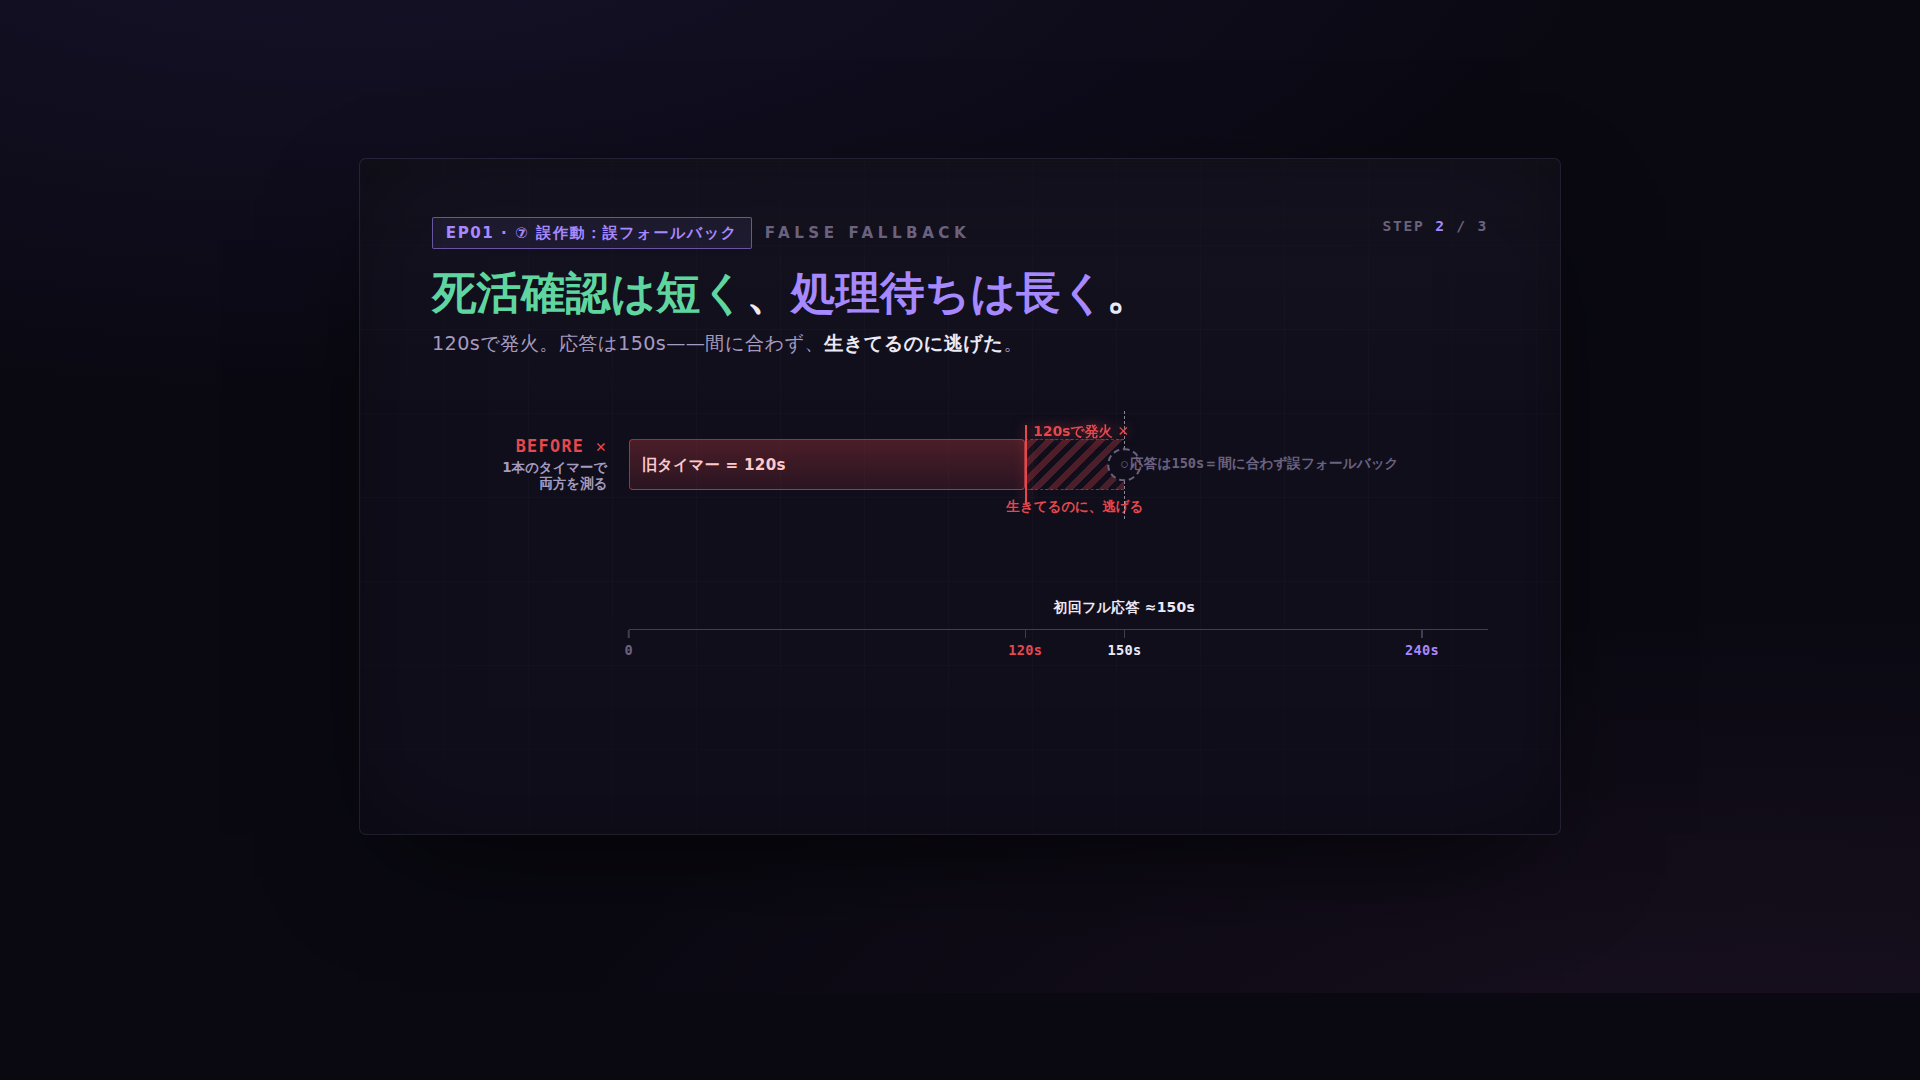
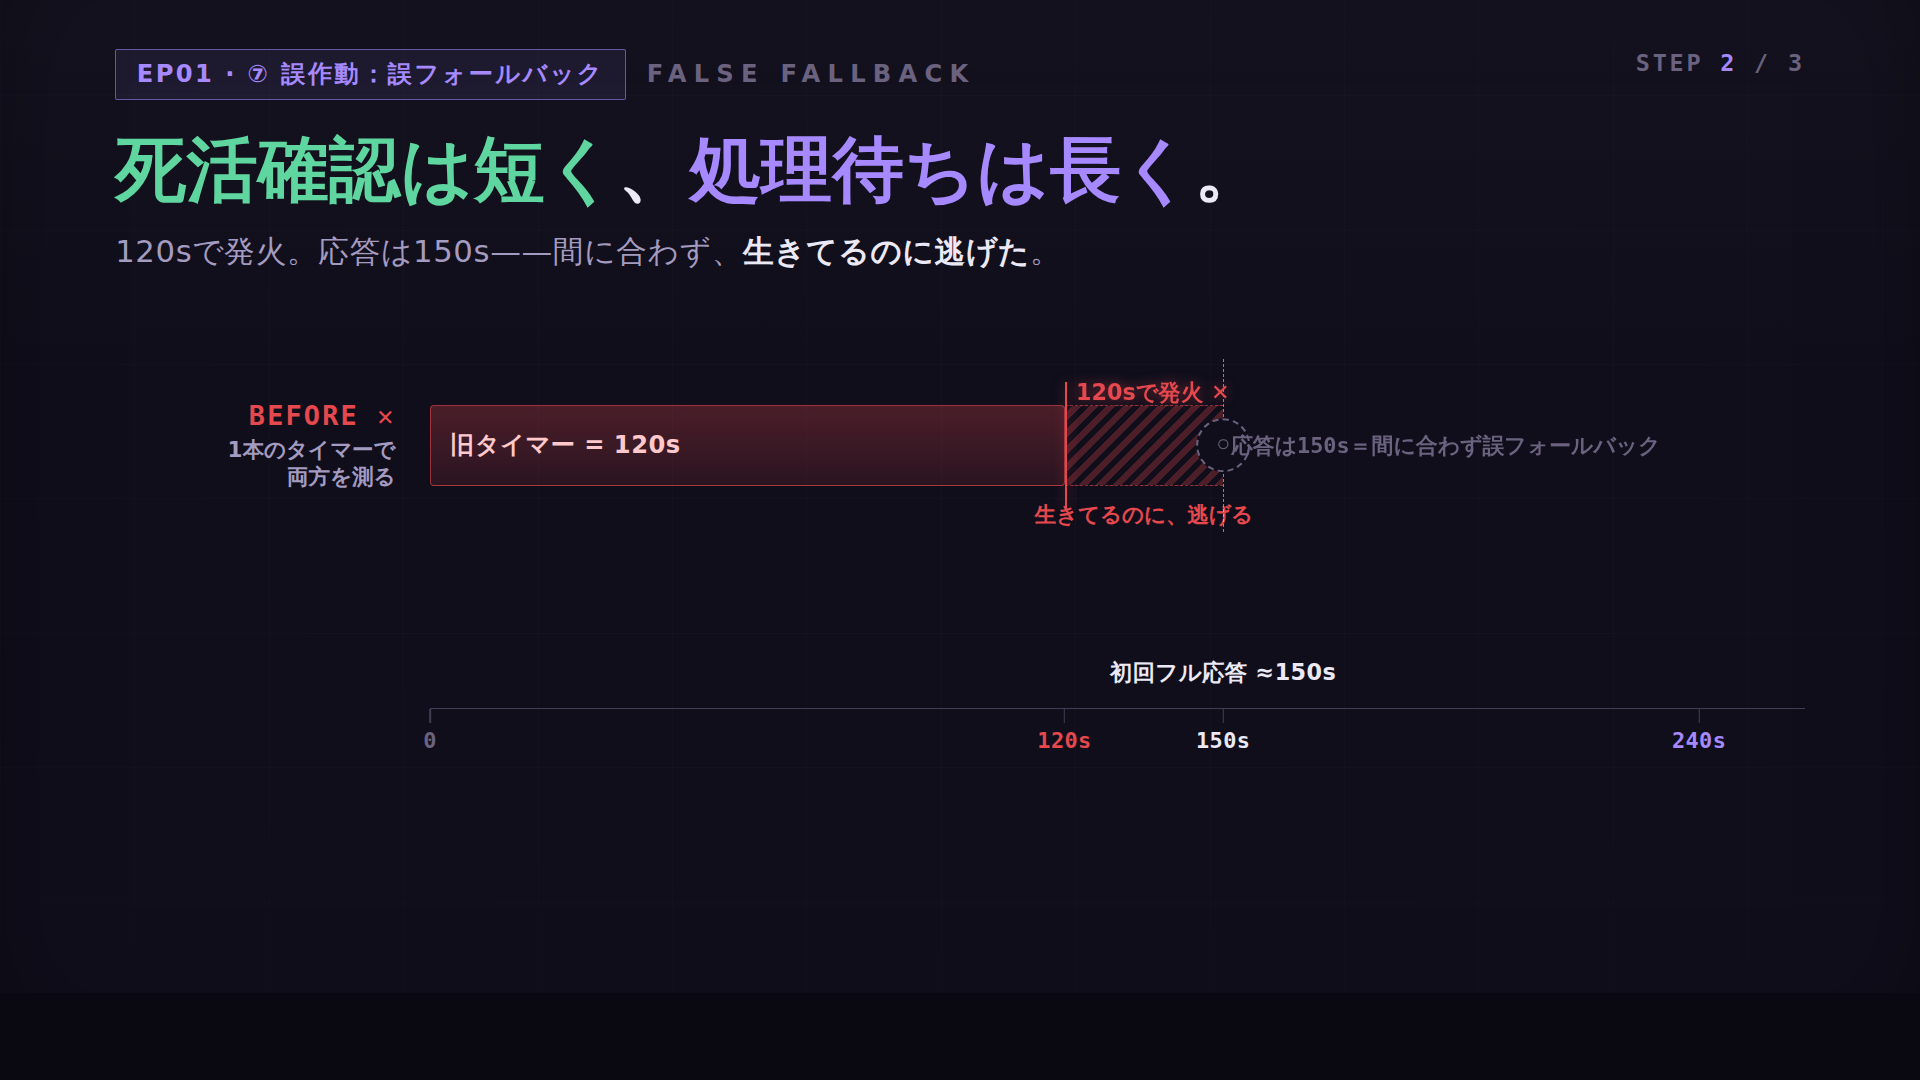
fix(ep01): 図解02/03/04 beats を全画面(1920x1080)化 — 余白除去・内容拡大
.stage を min(94vw,1200px)→100vw / body padding 3vmin→0。1200px中央固定で左右
約19%ずつ余白が出て内容が小さく見える問題を解消。内部は全て cqw のため幅1200→1920で
全要素が一様に約1.6倍へ拡大=レイアウト無変更・内容だけ拡大・余白ゼロ。
②③④ の B〜E 計12枚を再描画(Chromium headless・実描画検証済)。h1・段階点灯は不変。

Claude-Session: https://claude.ai/code/session_01PSb9x33bfv9pyEBDCy5BDs

diff --git a/docs/creative-strategy/assets/ep01-figures/03-two-stage-timeout-B.html b/docs/creative-strategy/assets/ep01-figures/03-two-stage-timeout-B.html
@@ -34,7 +34,7 @@
   * { box-sizing: border-box; }
 
   body {
-    margin: 0; min-height: 100vh; display: grid; place-items: center; padding: 3vmin;
+    margin: 0; min-height: 100vh; display: grid; place-items: center; padding: 0;
     background:
       radial-gradient(120% 90% at 18% -10%, #16122a 0%, rgba(22,18,42,0) 55%),
       radial-gradient(130% 100% at 92% 112%, #1a1020 0%, rgba(26,16,32,0) 50%),
@@ -45,7 +45,7 @@
   }
 
   .stage {
-    position: relative; width: min(94vw, var(--stage-w)); aspect-ratio: 16 / 9;
+    position: relative; width: 100vw; aspect-ratio: 16 / 9;
     container-type: inline-size; overflow: hidden; border-radius: 6px;
     background: linear-gradient(180deg, rgba(255,255,255,0.018), rgba(255,255,255,0) 40%), var(--ground-2);
     box-shadow: 0 0 0 1px var(--line), 0 40px 120px -40px rgba(0,0,0,0.85), inset 0 0 140px -40px rgba(0,0,0,0.6);

diff --git a/docs/creative-strategy/assets/ep01-figures/03-two-stage-timeout-C.html b/docs/creative-strategy/assets/ep01-figures/03-two-stage-timeout-C.html
@@ -34,7 +34,7 @@
   * { box-sizing: border-box; }
 
   body {
-    margin: 0; min-height: 100vh; display: grid; place-items: center; padding: 3vmin;
+    margin: 0; min-height: 100vh; display: grid; place-items: center; padding: 0;
     background:
       radial-gradient(120% 90% at 18% -10%, #16122a 0%, rgba(22,18,42,0) 55%),
       radial-gradient(130% 100% at 92% 112%, #1a1020 0%, rgba(26,16,32,0) 50%),
@@ -45,7 +45,7 @@
   }
 
   .stage {
-    position: relative; width: min(94vw, var(--stage-w)); aspect-ratio: 16 / 9;
+    position: relative; width: 100vw; aspect-ratio: 16 / 9;
     container-type: inline-size; overflow: hidden; border-radius: 6px;
     background: linear-gradient(180deg, rgba(255,255,255,0.018), rgba(255,255,255,0) 40%), var(--ground-2);
     box-shadow: 0 0 0 1px var(--line), 0 40px 120px -40px rgba(0,0,0,0.85), inset 0 0 140px -40px rgba(0,0,0,0.6);

diff --git a/docs/creative-strategy/assets/ep01-figures/03-two-stage-timeout-D.html b/docs/creative-strategy/assets/ep01-figures/03-two-stage-timeout-D.html
@@ -34,7 +34,7 @@
   * { box-sizing: border-box; }
 
   body {
-    margin: 0; min-height: 100vh; display: grid; place-items: center; padding: 3vmin;
+    margin: 0; min-height: 100vh; display: grid; place-items: center; padding: 0;
     background:
       radial-gradient(120% 90% at 18% -10%, #16122a 0%, rgba(22,18,42,0) 55%),
       radial-gradient(130% 100% at 92% 112%, #1a1020 0%, rgba(26,16,32,0) 50%),
@@ -45,7 +45,7 @@
   }
 
   .stage {
-    position: relative; width: min(94vw, var(--stage-w)); aspect-ratio: 16 / 9;
+    position: relative; width: 100vw; aspect-ratio: 16 / 9;
     container-type: inline-size; overflow: hidden; border-radius: 6px;
     background: linear-gradient(180deg, rgba(255,255,255,0.018), rgba(255,255,255,0) 40%), var(--ground-2);
     box-shadow: 0 0 0 1px var(--line), 0 40px 120px -40px rgba(0,0,0,0.85), inset 0 0 140px -40px rgba(0,0,0,0.6);

diff --git a/docs/creative-strategy/assets/ep01-figures/03-two-stage-timeout-E.html b/docs/creative-strategy/assets/ep01-figures/03-two-stage-timeout-E.html
@@ -34,7 +34,7 @@
   * { box-sizing: border-box; }
 
   body {
-    margin: 0; min-height: 100vh; display: grid; place-items: center; padding: 3vmin;
+    margin: 0; min-height: 100vh; display: grid; place-items: center; padding: 0;
     background:
       radial-gradient(120% 90% at 18% -10%, #16122a 0%, rgba(22,18,42,0) 55%),
       radial-gradient(130% 100% at 92% 112%, #1a1020 0%, rgba(26,16,32,0) 50%),
@@ -45,7 +45,7 @@
   }
 
   .stage {
-    position: relative; width: min(94vw, var(--stage-w)); aspect-ratio: 16 / 9;
+    position: relative; width: 100vw; aspect-ratio: 16 / 9;
     container-type: inline-size; overflow: hidden; border-radius: 6px;
     background: linear-gradient(180deg, rgba(255,255,255,0.018), rgba(255,255,255,0) 40%), var(--ground-2);
     box-shadow: 0 0 0 1px var(--line), 0 40px 120px -40px rgba(0,0,0,0.85), inset 0 0 140px -40px rgba(0,0,0,0.6);

diff --git a/docs/creative-strategy/assets/ep01-figures/04-npu-zero-cpu-reveal-B.html b/docs/creative-strategy/assets/ep01-figures/04-npu-zero-cpu-reveal-B.html
@@ -27,7 +27,7 @@
   * { box-sizing: border-box; }
 
   body {
-    margin: 0; min-height: 100vh; display: grid; place-items: center; padding: 3vmin;
+    margin: 0; min-height: 100vh; display: grid; place-items: center; padding: 0;
     background:
       radial-gradient(120% 90% at 15% -10%, #16122a 0%, rgba(22,18,42,0) 55%),
       radial-gradient(130% 100% at 92% 112%, #24121a 0%, rgba(36,18,26,0) 50%),
@@ -38,7 +38,7 @@
   }
 
   .stage {
-    position: relative; width: min(94vw, var(--stage-w)); aspect-ratio: 16 / 9;
+    position: relative; width: 100vw; aspect-ratio: 16 / 9;
     container-type: inline-size; overflow: hidden; border-radius: 6px;
     background: linear-gradient(180deg, rgba(255,255,255,0.018), rgba(255,255,255,0) 40%), var(--ground-2);
     box-shadow: 0 0 0 1px var(--line), 0 40px 120px -40px rgba(0,0,0,0.85), inset 0 0 140px -40px rgba(0,0,0,0.6);

diff --git a/docs/creative-strategy/assets/ep01-figures/04-npu-zero-cpu-reveal-C.html b/docs/creative-strategy/assets/ep01-figures/04-npu-zero-cpu-reveal-C.html
@@ -27,7 +27,7 @@
   * { box-sizing: border-box; }
 
   body {
-    margin: 0; min-height: 100vh; display: grid; place-items: center; padding: 3vmin;
+    margin: 0; min-height: 100vh; display: grid; place-items: center; padding: 0;
     background:
       radial-gradient(120% 90% at 15% -10%, #16122a 0%, rgba(22,18,42,0) 55%),
       radial-gradient(130% 100% at 92% 112%, #24121a 0%, rgba(36,18,26,0) 50%),
@@ -38,7 +38,7 @@
   }
 
   .stage {
-    position: relative; width: min(94vw, var(--stage-w)); aspect-ratio: 16 / 9;
+    position: relative; width: 100vw; aspect-ratio: 16 / 9;
     container-type: inline-size; overflow: hidden; border-radius: 6px;
     background: linear-gradient(180deg, rgba(255,255,255,0.018), rgba(255,255,255,0) 40%), var(--ground-2);
     box-shadow: 0 0 0 1px var(--line), 0 40px 120px -40px rgba(0,0,0,0.85), inset 0 0 140px -40px rgba(0,0,0,0.6);

diff --git a/docs/creative-strategy/assets/ep01-figures/04-npu-zero-cpu-reveal-D.html b/docs/creative-strategy/assets/ep01-figures/04-npu-zero-cpu-reveal-D.html
@@ -27,7 +27,7 @@
   * { box-sizing: border-box; }
 
   body {
-    margin: 0; min-height: 100vh; display: grid; place-items: center; padding: 3vmin;
+    margin: 0; min-height: 100vh; display: grid; place-items: center; padding: 0;
     background:
       radial-gradient(120% 90% at 15% -10%, #16122a 0%, rgba(22,18,42,0) 55%),
       radial-gradient(130% 100% at 92% 112%, #24121a 0%, rgba(36,18,26,0) 50%),
@@ -38,7 +38,7 @@
   }
 
   .stage {
-    position: relative; width: min(94vw, var(--stage-w)); aspect-ratio: 16 / 9;
+    position: relative; width: 100vw; aspect-ratio: 16 / 9;
     container-type: inline-size; overflow: hidden; border-radius: 6px;
     background: linear-gradient(180deg, rgba(255,255,255,0.018), rgba(255,255,255,0) 40%), var(--ground-2);
     box-shadow: 0 0 0 1px var(--line), 0 40px 120px -40px rgba(0,0,0,0.85), inset 0 0 140px -40px rgba(0,0,0,0.6);

diff --git a/docs/creative-strategy/assets/ep01-figures/04-npu-zero-cpu-reveal-E.html b/docs/creative-strategy/assets/ep01-figures/04-npu-zero-cpu-reveal-E.html
@@ -27,7 +27,7 @@
   * { box-sizing: border-box; }
 
   body {
-    margin: 0; min-height: 100vh; display: grid; place-items: center; padding: 3vmin;
+    margin: 0; min-height: 100vh; display: grid; place-items: center; padding: 0;
     background:
       radial-gradient(120% 90% at 15% -10%, #16122a 0%, rgba(22,18,42,0) 55%),
       radial-gradient(130% 100% at 92% 112%, #24121a 0%, rgba(36,18,26,0) 50%),
@@ -38,7 +38,7 @@
   }
 
   .stage {
-    position: relative; width: min(94vw, var(--stage-w)); aspect-ratio: 16 / 9;
+    position: relative; width: 100vw; aspect-ratio: 16 / 9;
     container-type: inline-size; overflow: hidden; border-radius: 6px;
     background: linear-gradient(180deg, rgba(255,255,255,0.018), rgba(255,255,255,0) 40%), var(--ground-2);
     box-shadow: 0 0 0 1px var(--line), 0 40px 120px -40px rgba(0,0,0,0.85), inset 0 0 140px -40px rgba(0,0,0,0.6);

diff --git a/docs/creative-strategy/assets/ep01-figures/02-trilemma-B.html b/docs/creative-strategy/assets/ep01-figures/02-trilemma-B.html
@@ -33,7 +33,7 @@
   body {
     margin: 0; min-height: 100vh;
     display: grid; place-items: center;
-    padding: 3vmin;
+    padding: 0;
     background:
       radial-gradient(120% 90% at 18% -10%, #16122a 0%, rgba(22,18,42,0) 55%),
       radial-gradient(130% 100% at 92% 112%, #1a1020 0%, rgba(26,16,32,0) 50%),
@@ -47,7 +47,7 @@
 
   .stage {
     position: relative;
-    width: min(94vw, var(--stage-w));
+    width: 100vw;
     aspect-ratio: 16 / 9;
     container-type: inline-size;
     overflow: hidden;

diff --git a/docs/creative-strategy/assets/ep01-figures/02-trilemma-C.html b/docs/creative-strategy/assets/ep01-figures/02-trilemma-C.html
@@ -33,7 +33,7 @@
   body {
     margin: 0; min-height: 100vh;
     display: grid; place-items: center;
-    padding: 3vmin;
+    padding: 0;
     background:
       radial-gradient(120% 90% at 18% -10%, #16122a 0%, rgba(22,18,42,0) 55%),
       radial-gradient(130% 100% at 92% 112%, #1a1020 0%, rgba(26,16,32,0) 50%),
@@ -47,7 +47,7 @@
 
   .stage {
     position: relative;
-    width: min(94vw, var(--stage-w));
+    width: 100vw;
     aspect-ratio: 16 / 9;
     container-type: inline-size;
     overflow: hidden;

diff --git a/docs/creative-strategy/assets/ep01-figures/02-trilemma-D.html b/docs/creative-strategy/assets/ep01-figures/02-trilemma-D.html
@@ -33,7 +33,7 @@
   body {
     margin: 0; min-height: 100vh;
     display: grid; place-items: center;
-    padding: 3vmin;
+    padding: 0;
     background:
       radial-gradient(120% 90% at 18% -10%, #16122a 0%, rgba(22,18,42,0) 55%),
       radial-gradient(130% 100% at 92% 112%, #1a1020 0%, rgba(26,16,32,0) 50%),
@@ -47,7 +47,7 @@
 
   .stage {
     position: relative;
-    width: min(94vw, var(--stage-w));
+    width: 100vw;
     aspect-ratio: 16 / 9;
     container-type: inline-size;
     overflow: hidden;

diff --git a/docs/creative-strategy/assets/ep01-figures/02-trilemma-E.html b/docs/creative-strategy/assets/ep01-figures/02-trilemma-E.html
@@ -33,7 +33,7 @@
   body {
     margin: 0; min-height: 100vh;
     display: grid; place-items: center;
-    padding: 3vmin;
+    padding: 0;
     background:
       radial-gradient(120% 90% at 18% -10%, #16122a 0%, rgba(22,18,42,0) 55%),
       radial-gradient(130% 100% at 92% 112%, #1a1020 0%, rgba(26,16,32,0) 50%),
@@ -47,7 +47,7 @@
 
   .stage {
     position: relative;
-    width: min(94vw, var(--stage-w));
+    width: 100vw;
     aspect-ratio: 16 / 9;
     container-type: inline-size;
     overflow: hidden;
